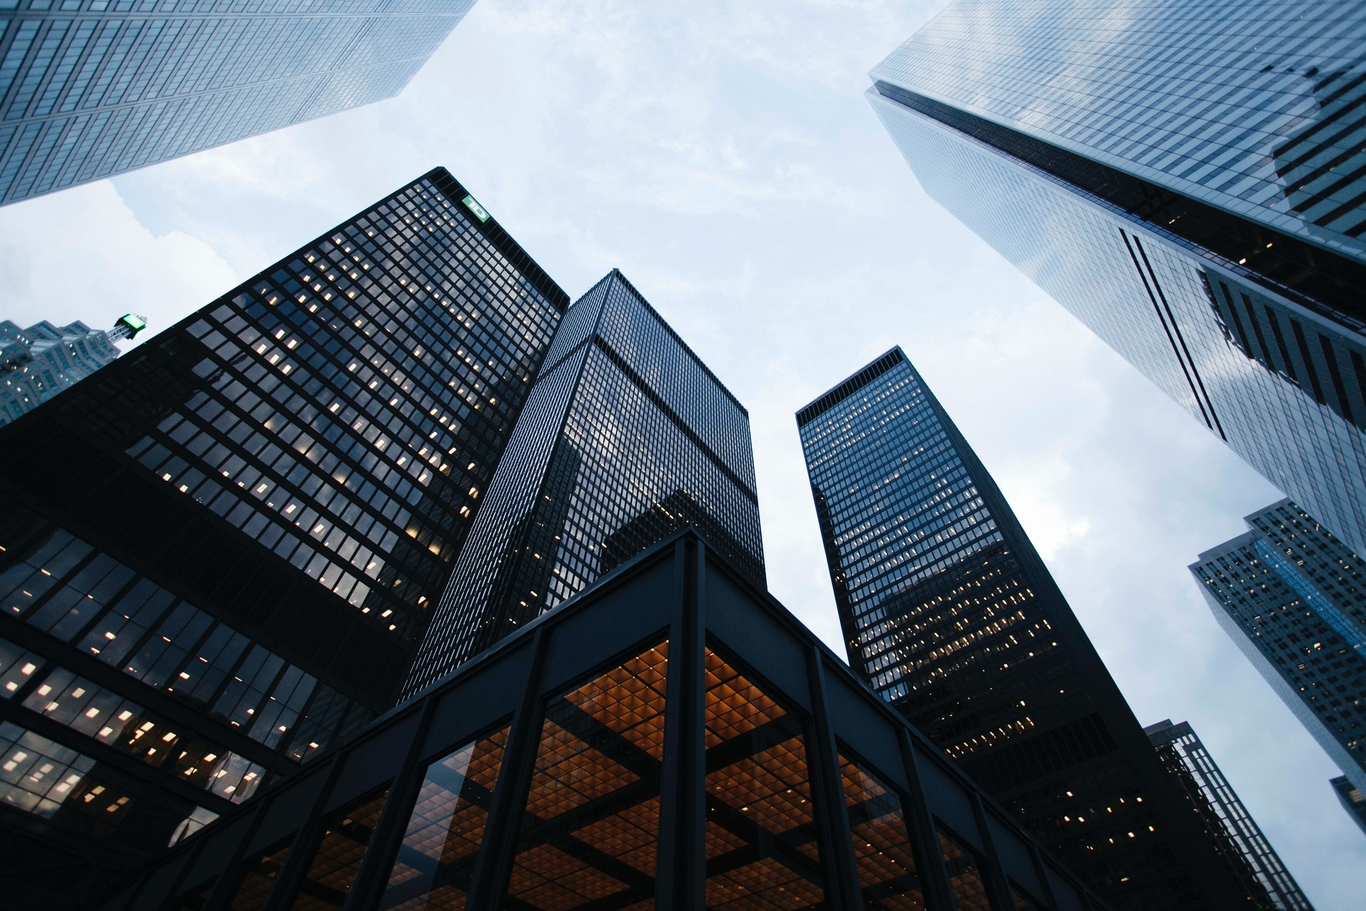
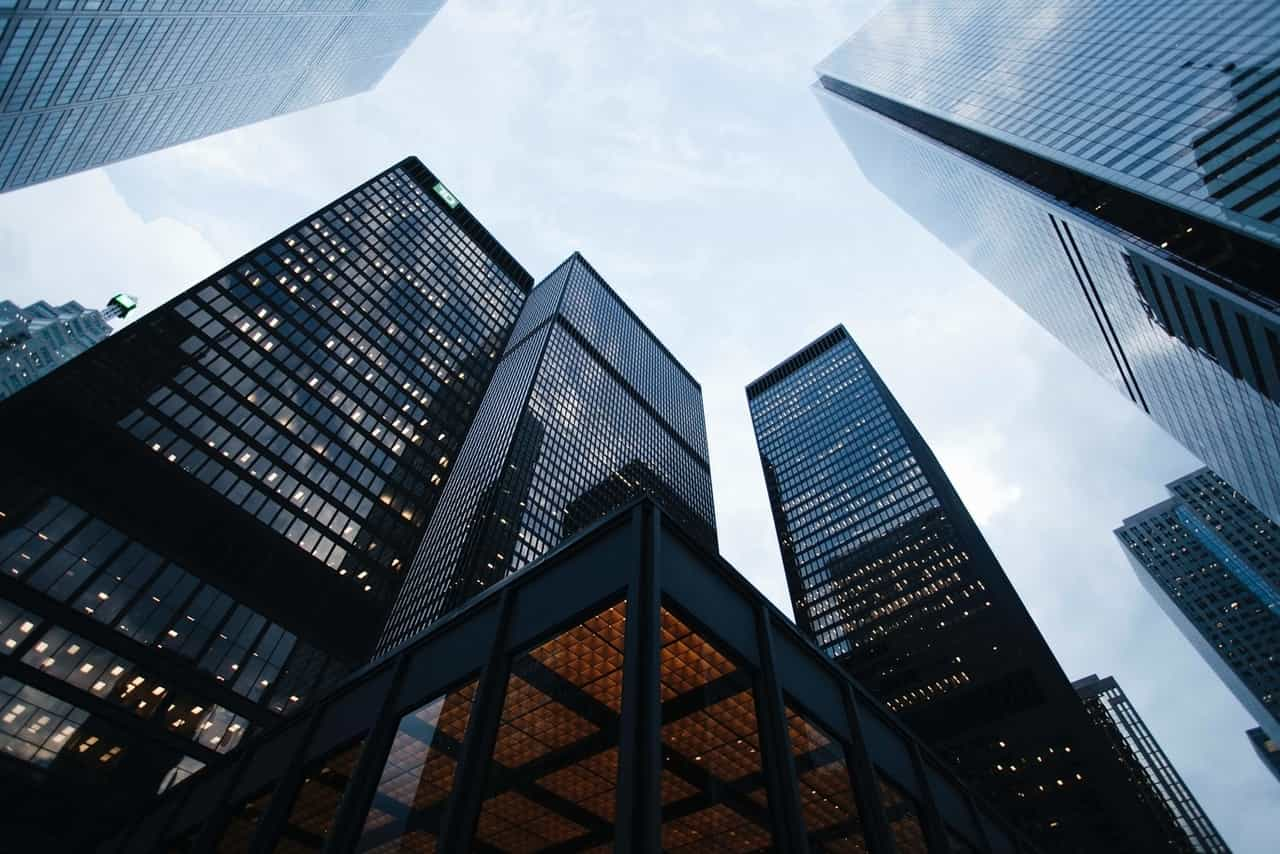
Change images to jpg again

diff --git a/css/style.css b/css/style.css
@@ -413,7 +413,7 @@ body
 	background-blend-mode: color;
 	background-position: top center;
 	background-color: rgba(0,0,0,0.6);
-	background-image: url('../img/bg-header.webp');
+	background-image: url('../img/bg-header.jpg');
 	display: flex;
 	flex-direction: column;
 	justify-content: center;
@@ -461,7 +461,7 @@ body
 	text-align: center;
 	min-height: 60vh;
 	background-color: rgba(0,0,0,0.6);
-	background-image: url('../img/bg-about.webp');
+	background-image: url('../img/bg-about.jpg');
 	background-blend-mode: color;
 	background-size: cover;
 	background-repeat: no-repeat;

diff --git a/commons/_services.php b/commons/_services.php
@@ -3,7 +3,7 @@
 		Nuestros servicios
 	</h2>
 	<div class="service pensionesService">
-		<img src="<?php echo $httpProtocol.$host.$url?>img/servicios/pensiones.webp" alt="Pensiones" class="serviceImg">
+		<img src="<?php echo $httpProtocol.$host.$url?>img/servicios/pensiones.jpg" alt="Pensiones" class="serviceImg">
 		<div class="serviceDescription">
 			<h2 class="serviceTitle">
 				Pensiones
@@ -138,7 +138,7 @@
 		</div>
 	</div>
 	<div class="service segurosService">
-		<img src="<?php echo $httpProtocol.$host.$url?>img/servicios/seguros.webp" alt="Seguros" class="serviceImg">
+		<img src="<?php echo $httpProtocol.$host.$url?>img/servicios/seguros.jpg" alt="Seguros" class="serviceImg">
 		<div class="serviceDescription">
 			<h2 class="serviceTitle">
 				Seguros
@@ -159,7 +159,7 @@
 		</div>
 	</div>
 	<div class="service aforesService">
-		<img src="<?php echo $httpProtocol.$host.$url?>img/servicios/afores.webp" alt="AFORES" class="serviceImg">
+		<img src="<?php echo $httpProtocol.$host.$url?>img/servicios/afores.jpg" alt="AFORES" class="serviceImg">
 		<div class="serviceDescription">
 			<h2 class="serviceTitle">
 				Afores
@@ -170,7 +170,7 @@
 		</div>
 	</div>
 	<div class="service cursosService">
-		<img src="<?php echo $httpProtocol.$host.$url?>img/servicios/cursos.webp" alt="Cursos" class="serviceImg">
+		<img src="<?php echo $httpProtocol.$host.$url?>img/servicios/cursos.jpg" alt="Cursos" class="serviceImg">
 		<div class="serviceDescription">
 			<h2 class="serviceTitle">
 				Cursos: Validación en trámite STPS
@@ -191,7 +191,7 @@
 		</div>
 	</div>
 	<div class="service capacitacionesService">
-		<img src="<?php echo $httpProtocol.$host.$url?>img/servicios/capacitacion.webp" alt="Capacitación" class="serviceImg">
+		<img src="<?php echo $httpProtocol.$host.$url?>img/servicios/capacitacion.jpg" alt="Capacitación" class="serviceImg">
 		<div class="serviceDescription">
 			<h2 class="serviceTitle">
 				Capacitaciones
@@ -292,7 +292,7 @@
 		</div>
 	</div>
 	<div class="service asesoriasService">
-		<img src="<?php echo $httpProtocol.$host.$url?>img/servicios/asesoria.webp" alt="Asesoría a empresas" class="serviceImg">
+		<img src="<?php echo $httpProtocol.$host.$url?>img/servicios/asesoria.jpg" alt="Asesoría a empresas" class="serviceImg">
 		<div class="serviceDescription">
 			<h2 class="serviceTitle">
 				Asesorías
